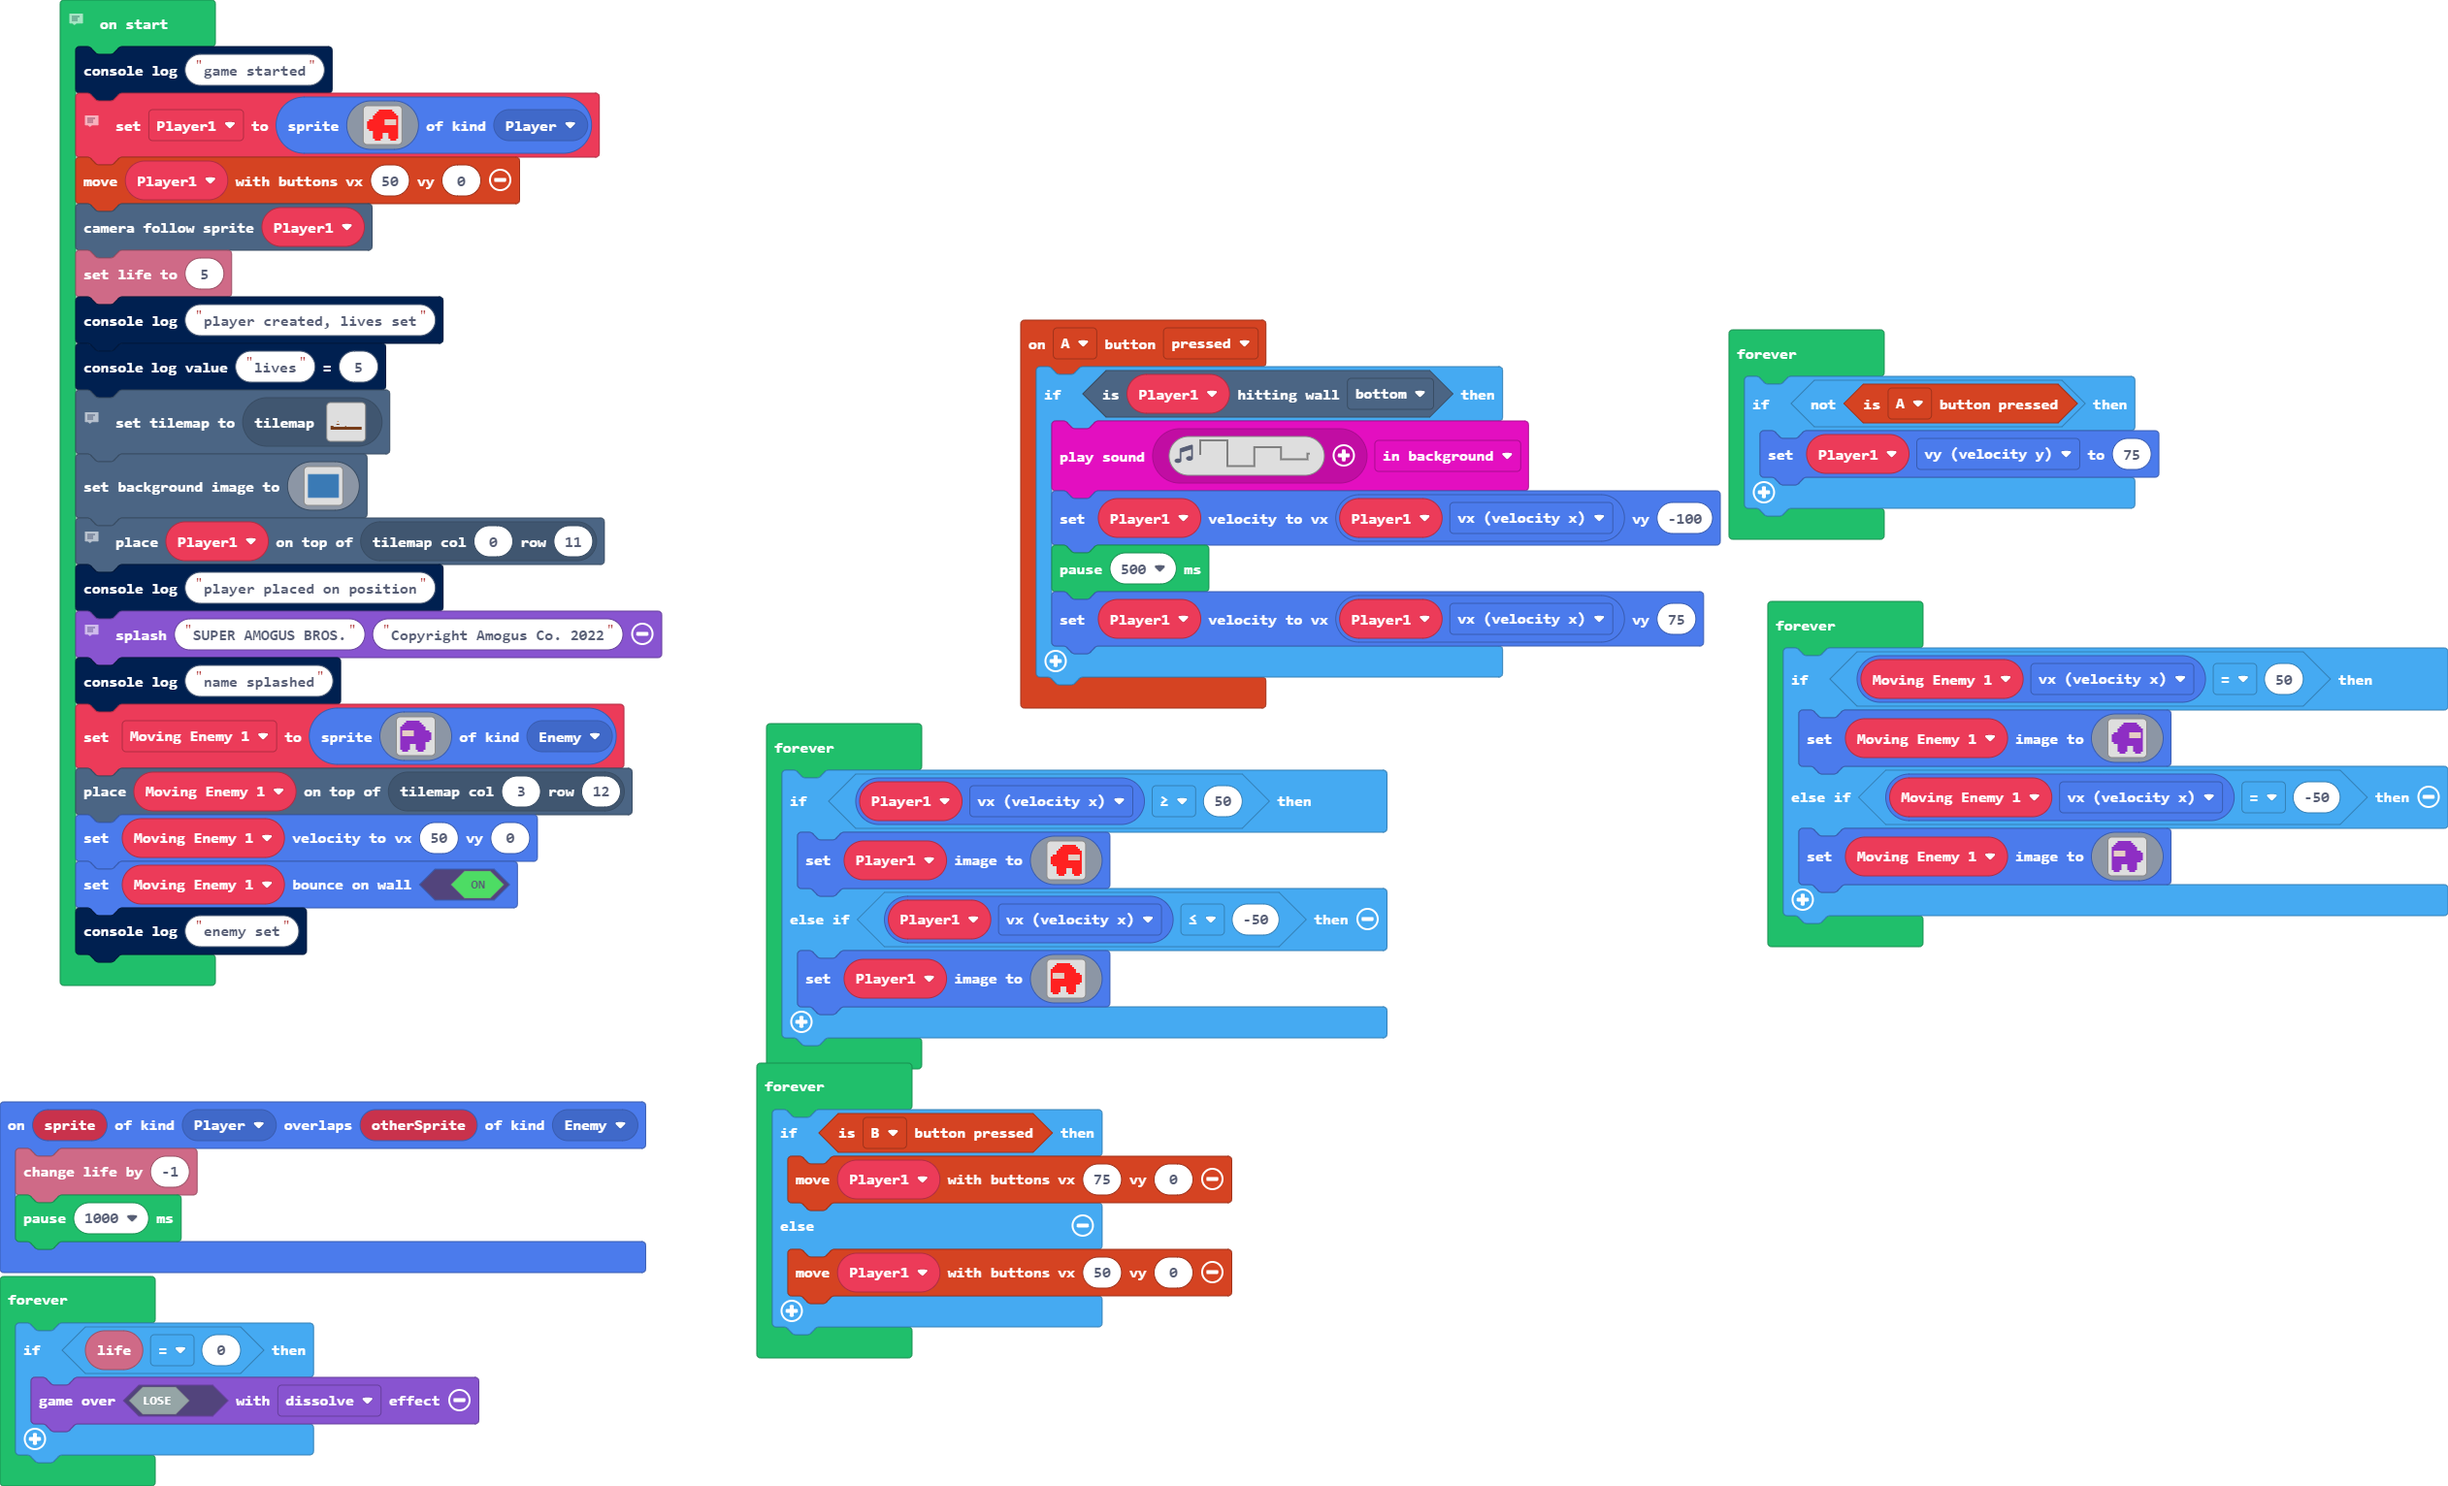
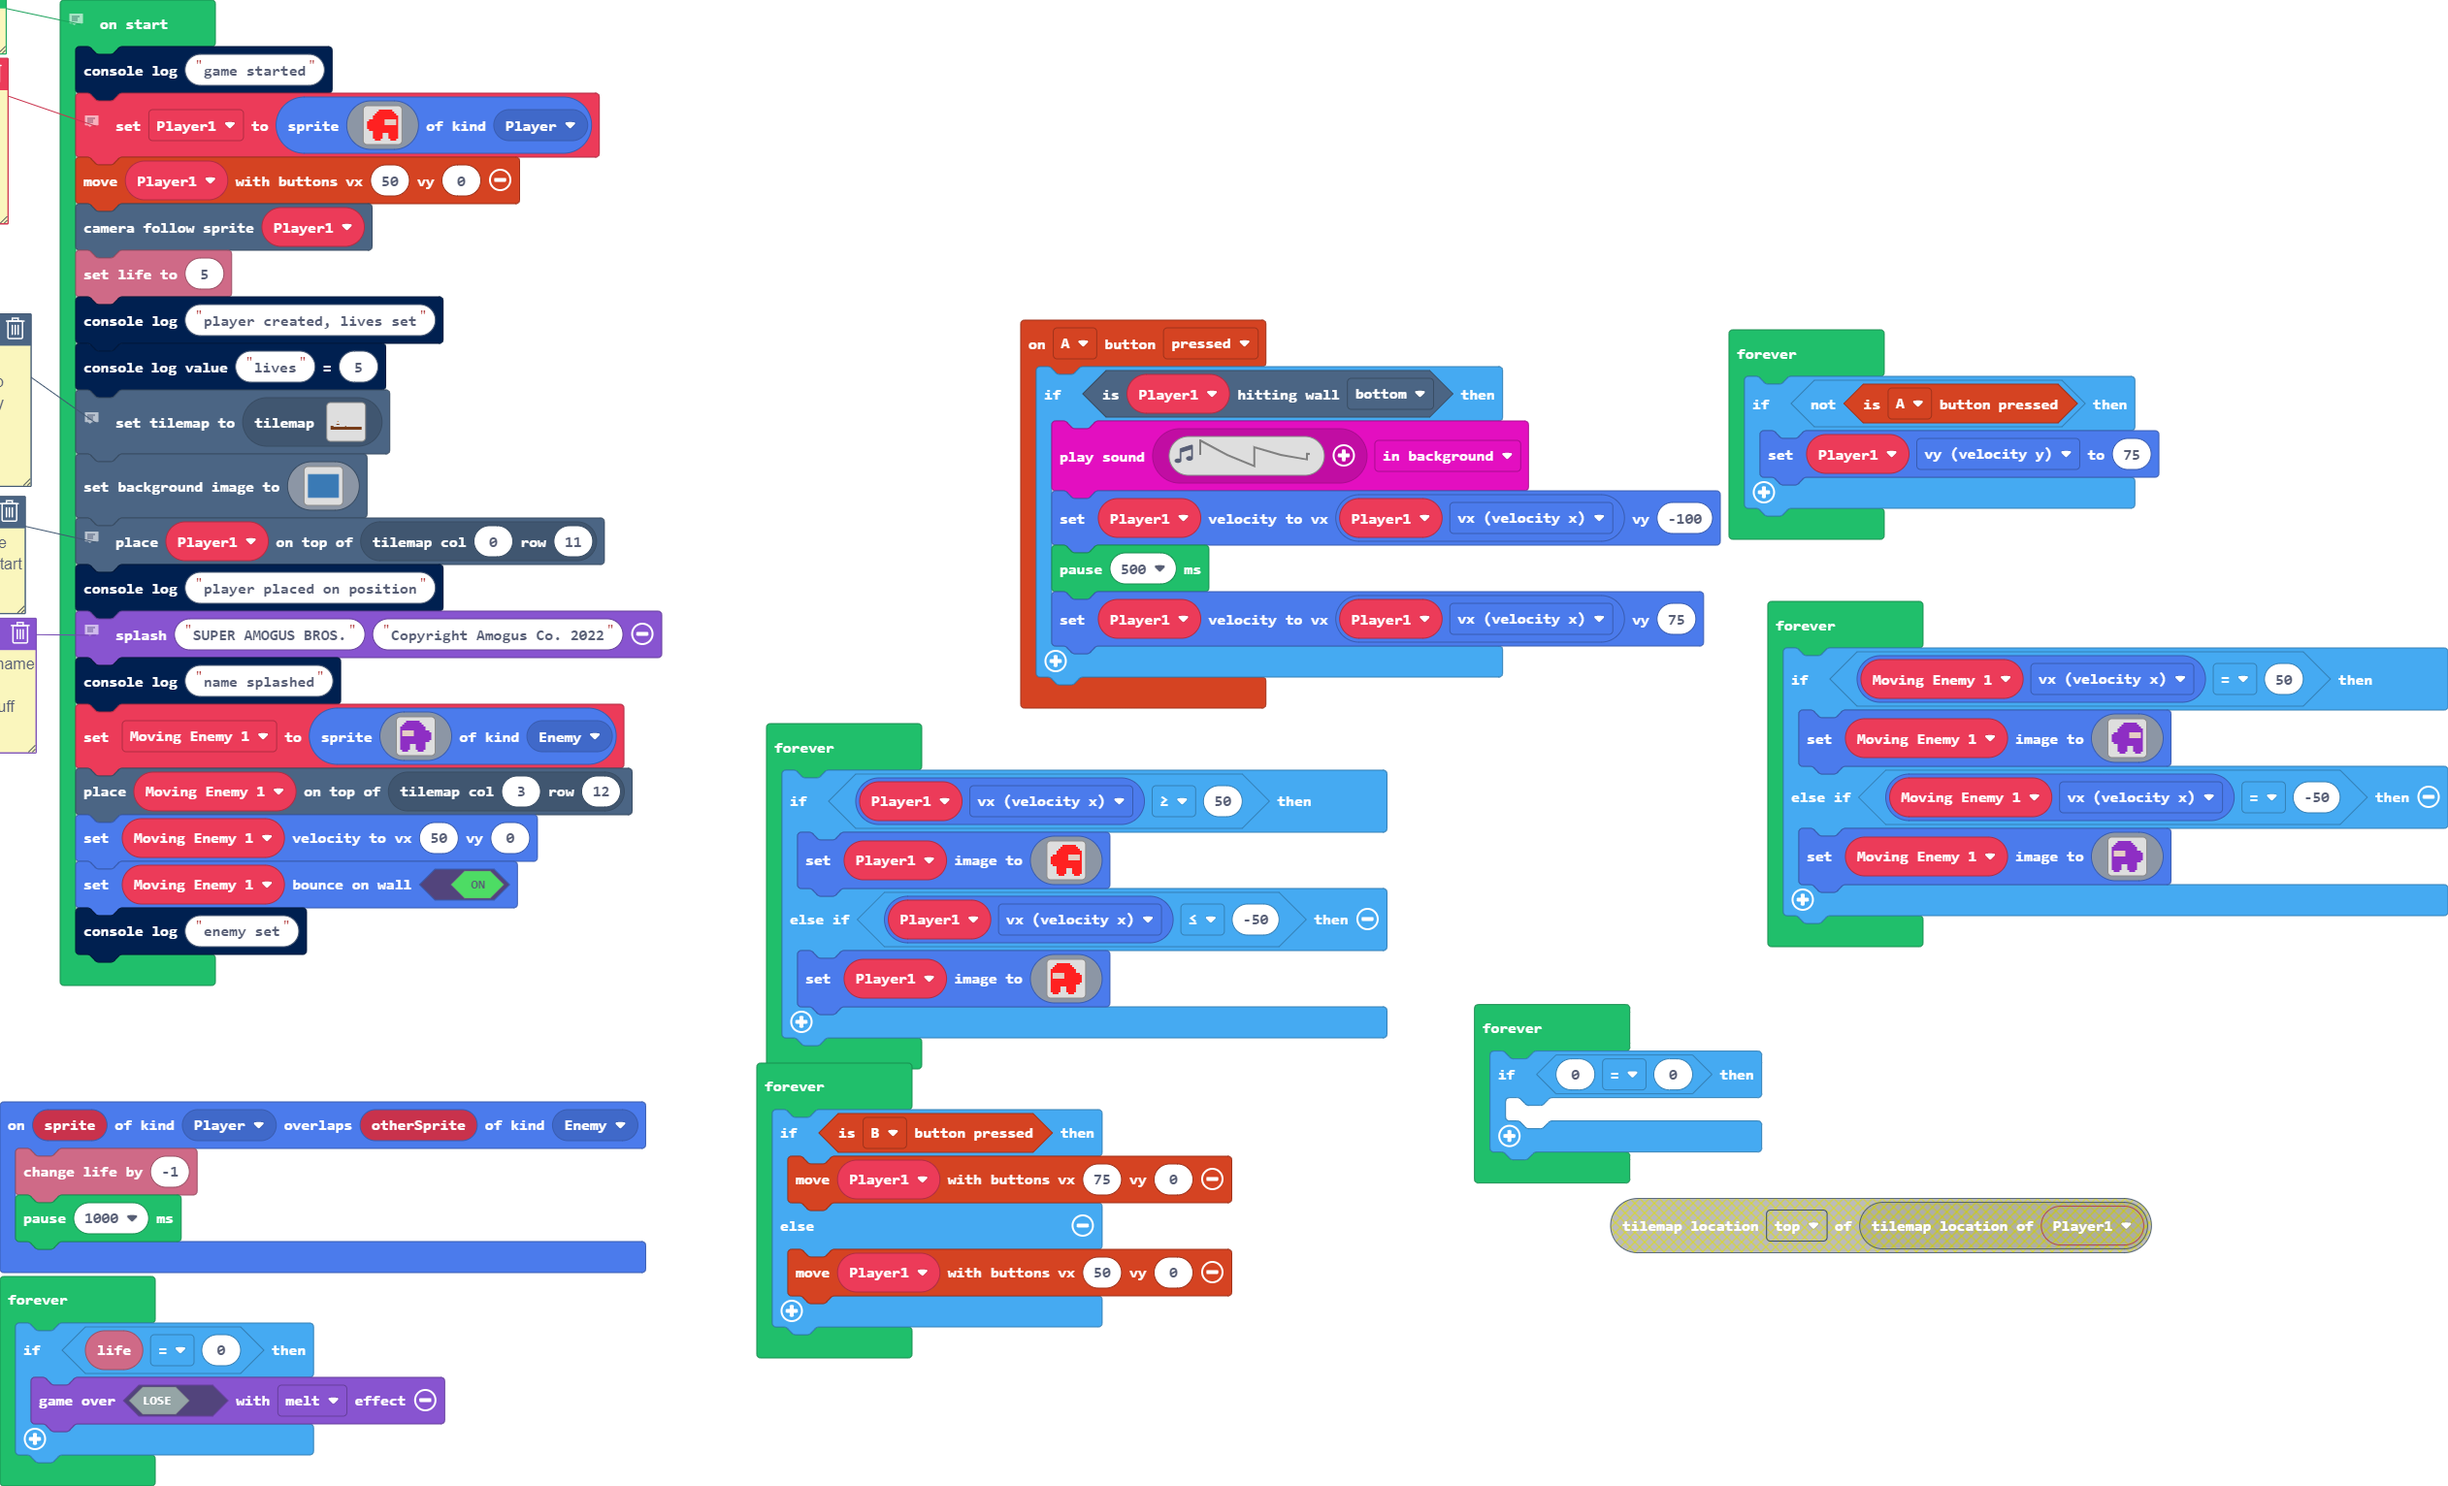
Update main.blocks, main.ts

diff --git a/main.ts b/main.ts
@@ -1,6 +1,6 @@
 controller.A.onEvent(ControllerButtonEvent.Pressed, function () {
     if (Player1.isHittingTile(CollisionDirection.Bottom)) {
-        music.playSoundEffect(music.createSoundEffect(WaveShape.Square, 400, 600, 255, 0, 250, SoundExpressionEffect.None, InterpolationCurve.Linear), SoundExpressionPlayMode.InBackground)
+        music.playSoundEffect(music.createSoundEffect(WaveShape.Sawtooth, 400, 661, 255, 0, 250, SoundExpressionEffect.None, InterpolationCurve.Linear), SoundExpressionPlayMode.InBackground)
         Player1.setVelocity(Player1.vx, -100)
         pause(500)
         Player1.setVelocity(Player1.vx, 75)
@@ -55,6 +55,11 @@ forever(function () {
     }
 })
 forever(function () {
+    if (0 == 0) {
+    	
+    }
+})
+forever(function () {
     if (controller.B.isPressed()) {
         controller.moveSprite(Player1, 75, 0)
     } else {
@@ -63,6 +68,6 @@ forever(function () {
 })
 forever(function () {
     if (info.life() == 0) {
-        game.over(false, effects.dissolve)
+        game.over(false, effects.melt)
     }
 })
